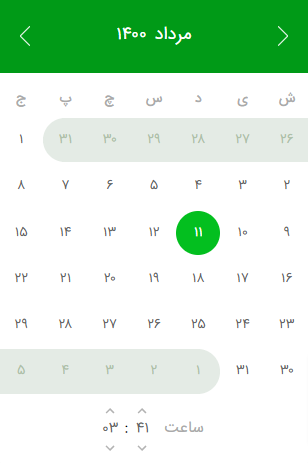
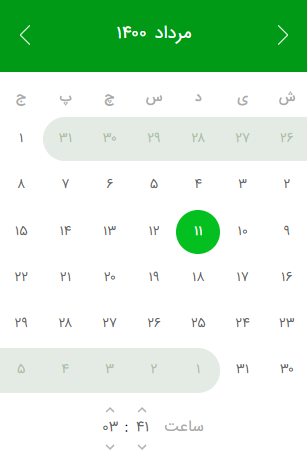
v1.5.1

diff --git a/website/Component/Layout/Header.tsx b/website/Component/Layout/Header.tsx
@@ -15,7 +15,7 @@ const Header = () => {
 						<Link href='/'>
 							<a className='cursor-pointer'>
 								React calendar date-time picker{' '}
-								<span className='text-xs ml-1'>v1.5.0</span>
+								<span className='text-xs ml-1'>v1.5.1</span>
 							</a>
 						</Link>
 					</span>

diff --git a/README.md b/README.md
@@ -7,7 +7,7 @@
 
 ### The Simple and fast English and Persian calender for React
 
-version: "1.5.0"
+version: "1.5.1"
 
 [![NPM](https://img.shields.io/npm/v/react-calendar-datetime-picker.svg)](https://www.npmjs.com/package/react-calendar-datetime-picker) [![JavaScript Style Guide](https://img.shields.io/badge/code_style-standard-brightgreen.svg)](https://standardjs.com)
 
@@ -60,7 +60,7 @@ const App = () => {
 
 ## ✔ bundle size
 
-You can check out this package bundle size in this [link](https://bundlephobia.com/result?p=react-calendar-datetime-picker)
+You can check out this package bundle size in this [Link](https://bundlephobia.com/result?p=react-calendar-datetime-picker@1.5.1)
 
 ## 🙇 Special Thanks
 

diff --git a/CHANGELOG.md b/CHANGELOG.md
@@ -5,6 +5,10 @@ All notable changes to this project will be documented in this file.
 The format is based on [Keep a Changelog](https://keepachangelog.com/en/1.0.0/),
 and this project adheres to [Semantic Versioning](https://semver.org/spec/v2.0.0.html).
 
+## [1.5.1] - 5/27/2021|
+
+- fix initial value render issus
+
 ## [1.5.0] - 5/27/2021|
 
 - replace Persian date with Jalaali-js
